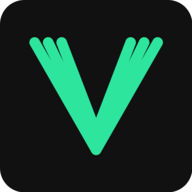
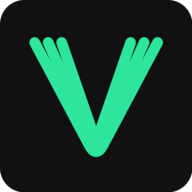
fix: smooth hairpin U-curves at bottom of V, matching reference exactly

diff --git a/frontend/src/components/VaadaLogo.tsx b/frontend/src/components/VaadaLogo.tsx
@@ -10,12 +10,12 @@ export function VaadaLogo({ size = 28, className = '' }: { size?: number; classN
       className={className}
     >
       <g fill="none" stroke="#2EE59D" strokeWidth="35" strokeLinecap="round">
-        {/* Outer V */}
-        <path d="M 115,141 L 320,499 L 525,141" strokeLinejoin="round" />
+        {/* Outer V - smooth hairpin at bottom */}
+        <path d="M 115,141 L 295,480 Q 320,530 345,480 L 525,141" />
         {/* Middle V */}
-        <path d="M 160,141 L 320,470 L 480,141" strokeLinejoin="round" />
+        <path d="M 160,141 L 300,455 Q 320,495 340,455 L 480,141" />
         {/* Inner V */}
-        <path d="M 205,141 L 320,441 L 435,141" strokeLinejoin="round" />
+        <path d="M 205,141 L 305,430 Q 320,460 335,430 L 435,141" />
       </g>
     </svg>
   )
